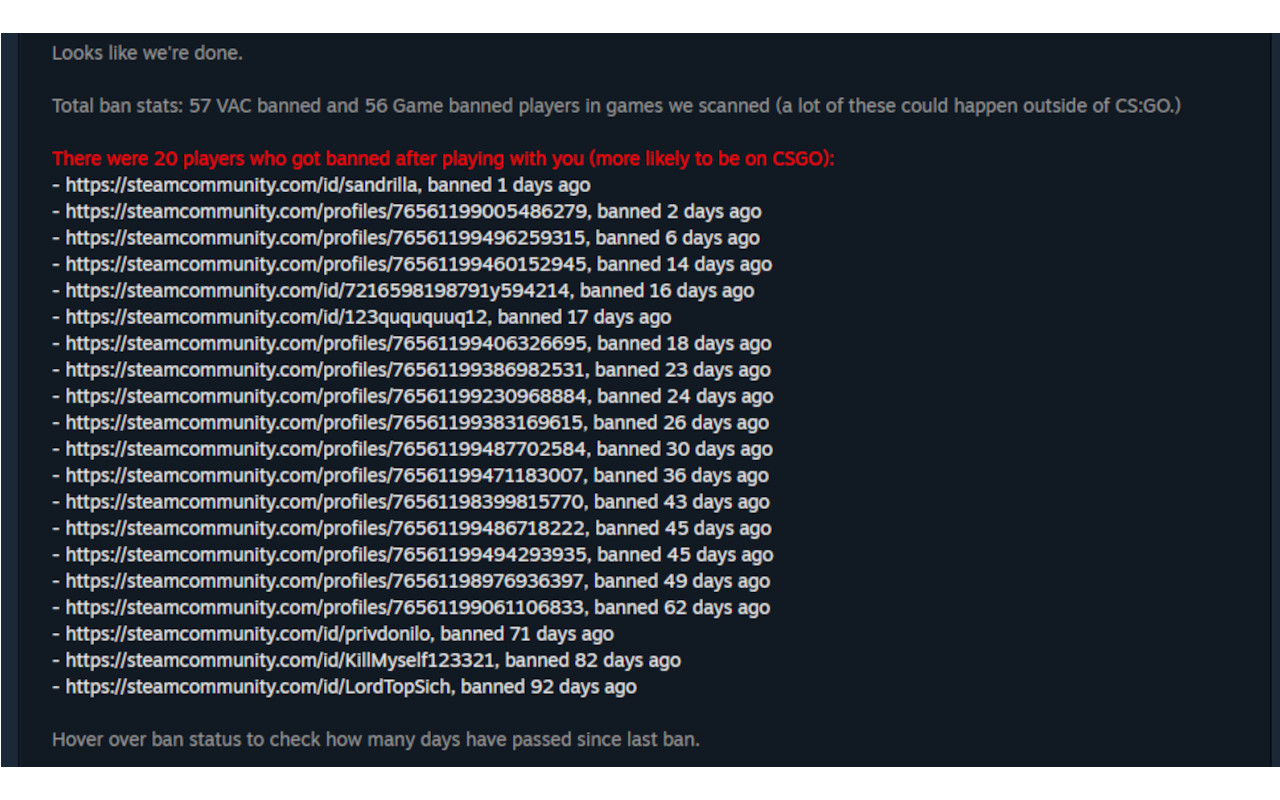
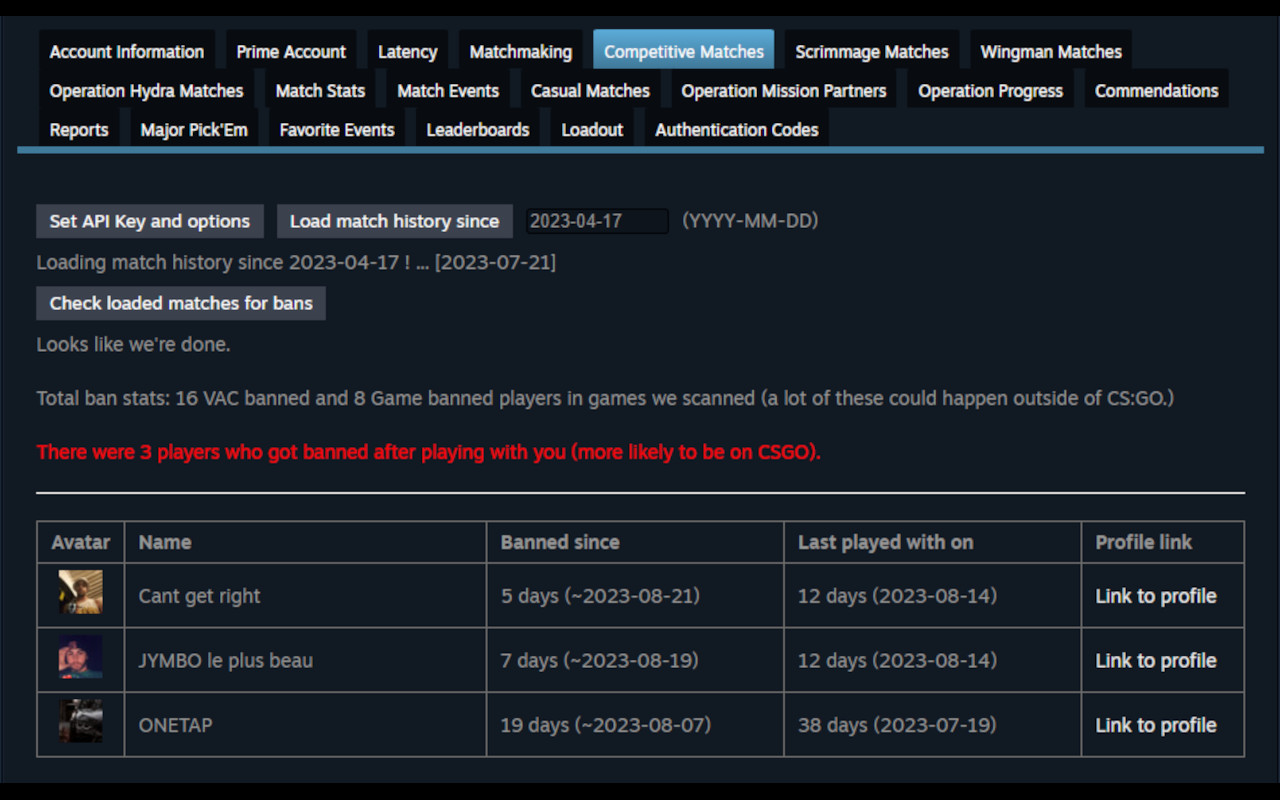
udpate readme and screenshots

diff --git a/README.md b/README.md
@@ -8,28 +8,33 @@ I focus for now on improving analysing about https://steamcommunity.com/my/gcpd/
 
 Load your matchmaking history and find if players have been banned (VAC or Game ban). You can filter your games between short and long games.
 
-I provide statistics for playerbase and maps. The most important statistics I wanted to add in the first place :
+I provide the list of banned players after playing with you and some statistics.
+
+The most important statistics I wanted to add in the first place :
 - number and pourcentage of matches with someone who has been banned after playing with you,
 - number and pourcentage of players who has been banned after playing with you.
-
-Bans after the game displayed in red are more likely to be for CSGO. Older ones (yellow) can't be on CSGO.
 
 I remove all the functionnalities about alarms and notifications.  
 And I remove for now the friends/group/followed players ban check. May add it back in future version.
 
 What this version add to the original version :
-- you can stop the history load and input a "max date" for history load,
-- more statistics,
+- number and pourcentage of matches with someone who has been banned after playing with you,
+- number and pourcentage of players who has been banned after playing with you.
+- you can stop the history load and and ban check,
+- you can provide a max date for history load,
+- list of players banned,
+- maps statistics,
+- winrate,
 - add option to filter games between short and long games.
 
 Here are some screeshots :
 
-![Winrate](./readme/options-1.1.0.png)
-
-![Loading](./readme/statistics-1.1.0.png)
-
-![Results](./readme/results-1.1.0-1.png)
+![Results](./readme/results-1.1.4-1.png)
 
 ![Results](./readme/results-1.1.0-2.png)
 
 ![Highlight](./readme/highlight.png)
+
+![Options](./readme/options-1.1.0.png)
+
+![Loading](./readme/statistics-1.1.0.png)
